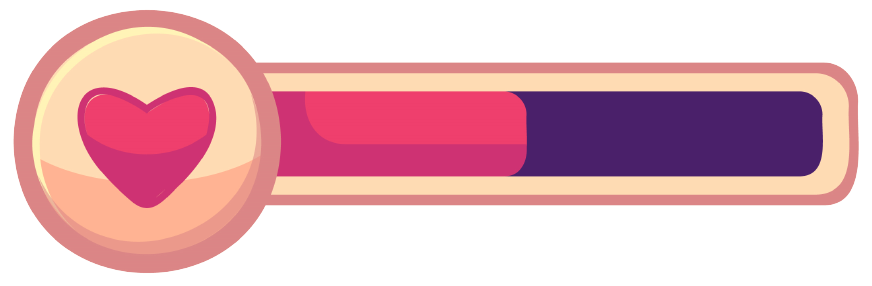
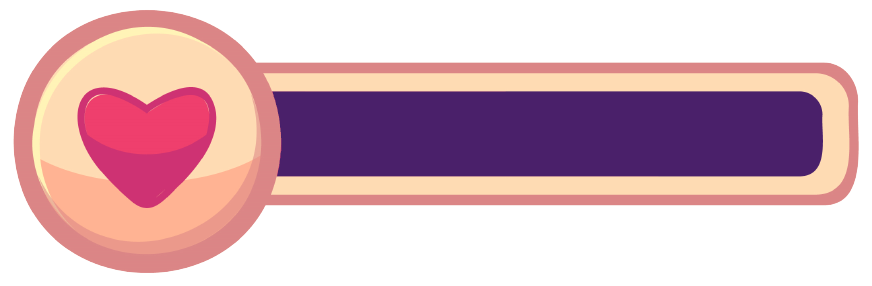
change HP Bar, some layouts adjustments

Changed region(s): [[0.3096, 0.3077, 0.6193, 0.6434]]

diff --git a/src/components/Ui/index.tsx b/src/components/Ui/index.tsx
@@ -1,10 +1,20 @@
 import { Image } from "@chakra-ui/react";
+import { numeric } from "../../utils";
 import * as S from "./styles";
 
 export const Ui = () => {
+  const PLAYER_HP = 7800;
+  const MAX_PLAYER_HP = 10000;
+
+  const PLAYER_EXP = 500;
+  const MAX_PLAYER_EXP = 1000;
+  const EXP_NEEDED = MAX_PLAYER_EXP - PLAYER_EXP;
+
+  const PLAYER_GOLD = 2000000;
+  const PLAYER_DIAMOND = 10000;
   return (
     <S.UiContainer w="100%" justifyContent="space-between" direction="row">
-      <S.UiBar>
+      <S.UiBar height="100%">
         <Image
           boxSize="fit-content"
           margin="0 10px"
@@ -12,33 +22,64 @@ export const Ui = () => {
           src="images/ui/HP_BAR.png"
           alt="HP_BAR"
         />
+        <S.ProgressContainer>
+          <S.HpProgressBar
+            borderEndRadius="5px"
+            max={MAX_PLAYER_HP}
+            value={PLAYER_HP}
+          />
+        </S.ProgressContainer>
+        <S.HpText>{PLAYER_HP + " / " + MAX_PLAYER_HP}</S.HpText>
       </S.UiBar>
+
       <S.UiBar>
         <Image
           boxSize="fit-content"
           margin="0 10px"
           objectFit="cover"
           src="images/ui/EXP_BAR.png"
-          alt="HP_BAR"
+          alt="EXP_BAR"
         />
+        <S.ProgressContainer>
+          <S.ExpProgressBar
+            borderEndRadius="5px"
+            max={MAX_PLAYER_EXP}
+            value={PLAYER_EXP}
+          />
+        </S.ProgressContainer>
+        <S.ExpText>{PLAYER_EXP + " / " + MAX_PLAYER_EXP}</S.ExpText>
       </S.UiBar>
+
       <S.UiBar>
         <Image
           boxSize="fit-content"
           margin="0 10px"
           objectFit="cover"
           src="images/ui/GOLD_BAR.png"
-          alt="HP_BAR"
+          alt="GOLD_BAR"
         />
+        <S.GoldContainer>
+          <S.GoldProgressBar borderEndRadius="5px" value={100} />
+        </S.GoldContainer>
+        <S.GoldText>
+          <div>{numeric(PLAYER_GOLD, 0)}</div>
+        </S.GoldText>
       </S.UiBar>
+
       <S.UiBar>
         <Image
           boxSize="fit-content"
           margin="0 10px"
           objectFit="cover"
           src="images/ui/DIAMOND_BAR.png"
-          alt="HP_BAR"
+          alt="DIAMOND_BAR"
         />
+        <S.DiamondContainer>
+          <S.DiamondProgressBar borderEndRadius="5px" value={100} />
+        </S.DiamondContainer>
+        <S.DiamondText>
+          <div>{numeric(PLAYER_DIAMOND, 0)}</div>
+        </S.DiamondText>
       </S.UiBar>
     </S.UiContainer>
   );

diff --git a/src/components/Ui/styles.ts b/src/components/Ui/styles.ts
@@ -1,4 +1,4 @@
-import { Flex } from "@chakra-ui/react";
+import { Flex, Progress, Text } from "@chakra-ui/react";
 import styled from "@emotion/styled";
 import { MAX_WIDTH } from "../../utils/constants";
 
@@ -12,4 +12,122 @@ export const UiContainer = styled(Flex)`
 
 export const UiBar = styled(Flex)`
   width: 250px;
+  flex-direction: column;
+  position: relative;
+`;
+
+export const HpProgressBar = styled(Progress)`
+  bottom: 56px;
+  left: 88px;
+  height: 25px;
+  max-height: 150px;
+  width: 161px;
+
+  div {
+    background-color: #ce3273;
+  }
+`;
+
+export const ProgressContainer = styled(Flex)``;
+
+export const HpText = styled(Text)`
+  position: relative;
+  font-size: 16px;
+  bottom: 81px;
+  font-weight: 600;
+  color: ${(props) => props.theme.colors.primary};
+  left: 130px;
+  width: fit-content;
+`;
+
+export const ExpText = styled(Text)`
+  position: relative;
+  font-size: 16px;
+  bottom: 80px;
+  font-weight: 600;
+  color: ${(props) => props.theme.colors.primary};
+  left: 130px;
+  width: fit-content;
+`;
+
+export const GoldText = styled(Flex)`
+  position: relative;
+  font-size: 16px;
+  bottom: 80px;
+  font-weight: 600;
+  justify-content: center;
+  color: #fff;
+  left: 86px;
+  width: 160px;
+`;
+
+export const DiamondText = styled(Flex)`
+  position: relative;
+  font-size: 16px;
+  bottom: 80px;
+  font-weight: 600;
+  justify-content: center;
+  color: #fff;
+  left: 86px;
+  width: 160px;
+`;
+
+export const GoldContainer = styled(Flex)`
+  justify-content: center;
+  p {
+    position: relative;
+    bottom: 54px;
+    font-size: 16px;
+    font-weight: 600;
+    color: #fff;
+    left: -38px;
+  }
+`;
+
+export const DiamondContainer = styled(Flex)`
+  justify-content: center;
+  p {
+    position: relative;
+    bottom: 56px;
+    font-size: 16px;
+    font-weight: 600;
+    color: #fff;
+    left: -38px;
+  }
+`;
+
+export const ExpProgressBar = styled(Progress)`
+  bottom: 55px;
+  left: 87px;
+  height: 25px;
+  max-height: 150px;
+  width: 161px;
+
+  div {
+    background-color: #ff9b57;
+  }
+`;
+
+export const GoldProgressBar = styled(Progress)`
+  bottom: 54px;
+  left: 45px;
+  height: 25px;
+  max-height: 150px;
+  width: 159px;
+
+  div {
+    background-color: #ff9b57;
+  }
+`;
+
+export const DiamondProgressBar = styled(Progress)`
+  bottom: 56px;
+  left: 43px;
+  height: 25px;
+  max-height: 150px;
+  width: 154px;
+
+  div {
+    background-color: #4d98db;
+  }
 `;

diff --git a/src/utils/index.ts b/src/utils/index.ts
@@ -1,0 +1,10 @@
+export const numeric = (
+  value: string | number = 0,
+  decimals: number = 2
+): string => {
+  const formatter = new Intl.NumberFormat("en-US", {
+    maximumFractionDigits: decimals,
+    minimumFractionDigits: decimals,
+  });
+  return formatter.format(value as number);
+};

diff --git a/src/components/GameWindow/styles.ts b/src/components/GameWindow/styles.ts
@@ -9,7 +9,6 @@ export const GameWindowContainer = styled(Flex)`
   max-height: 700px;
   background-color: ${(props) => props.theme.primary};
   border-radius: 10px;
-  border: 1px solid black;
   margin: 0 auto;
   flex-direction: column;
   z-index: 0;
